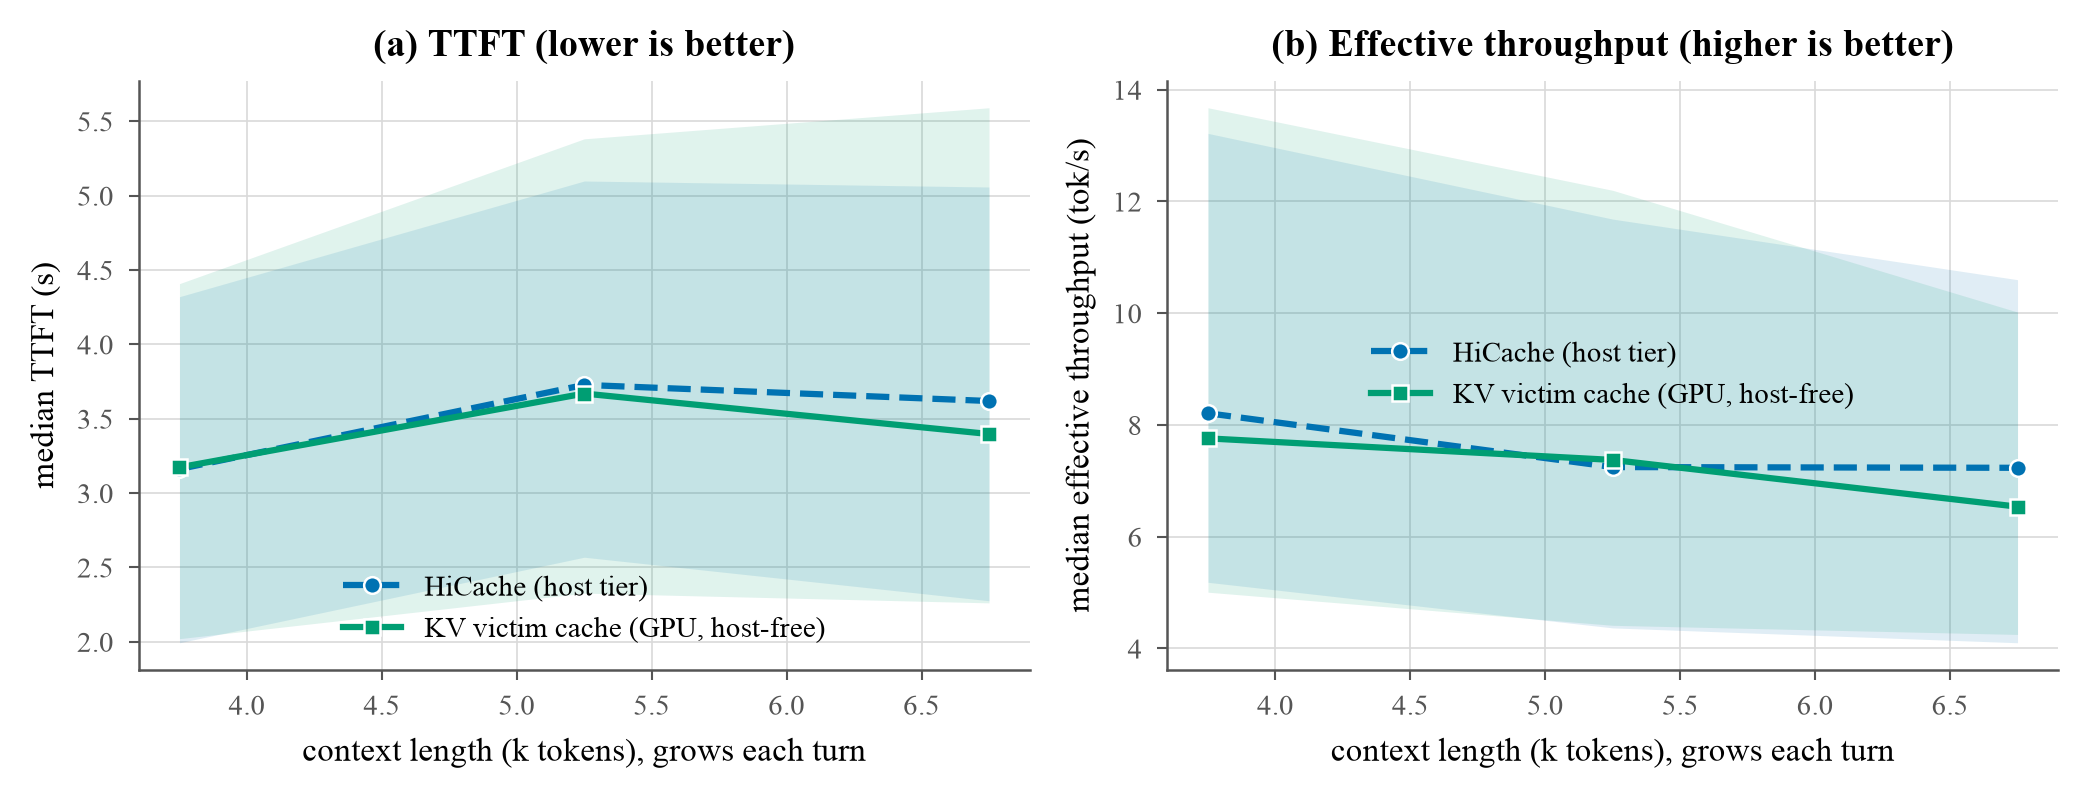
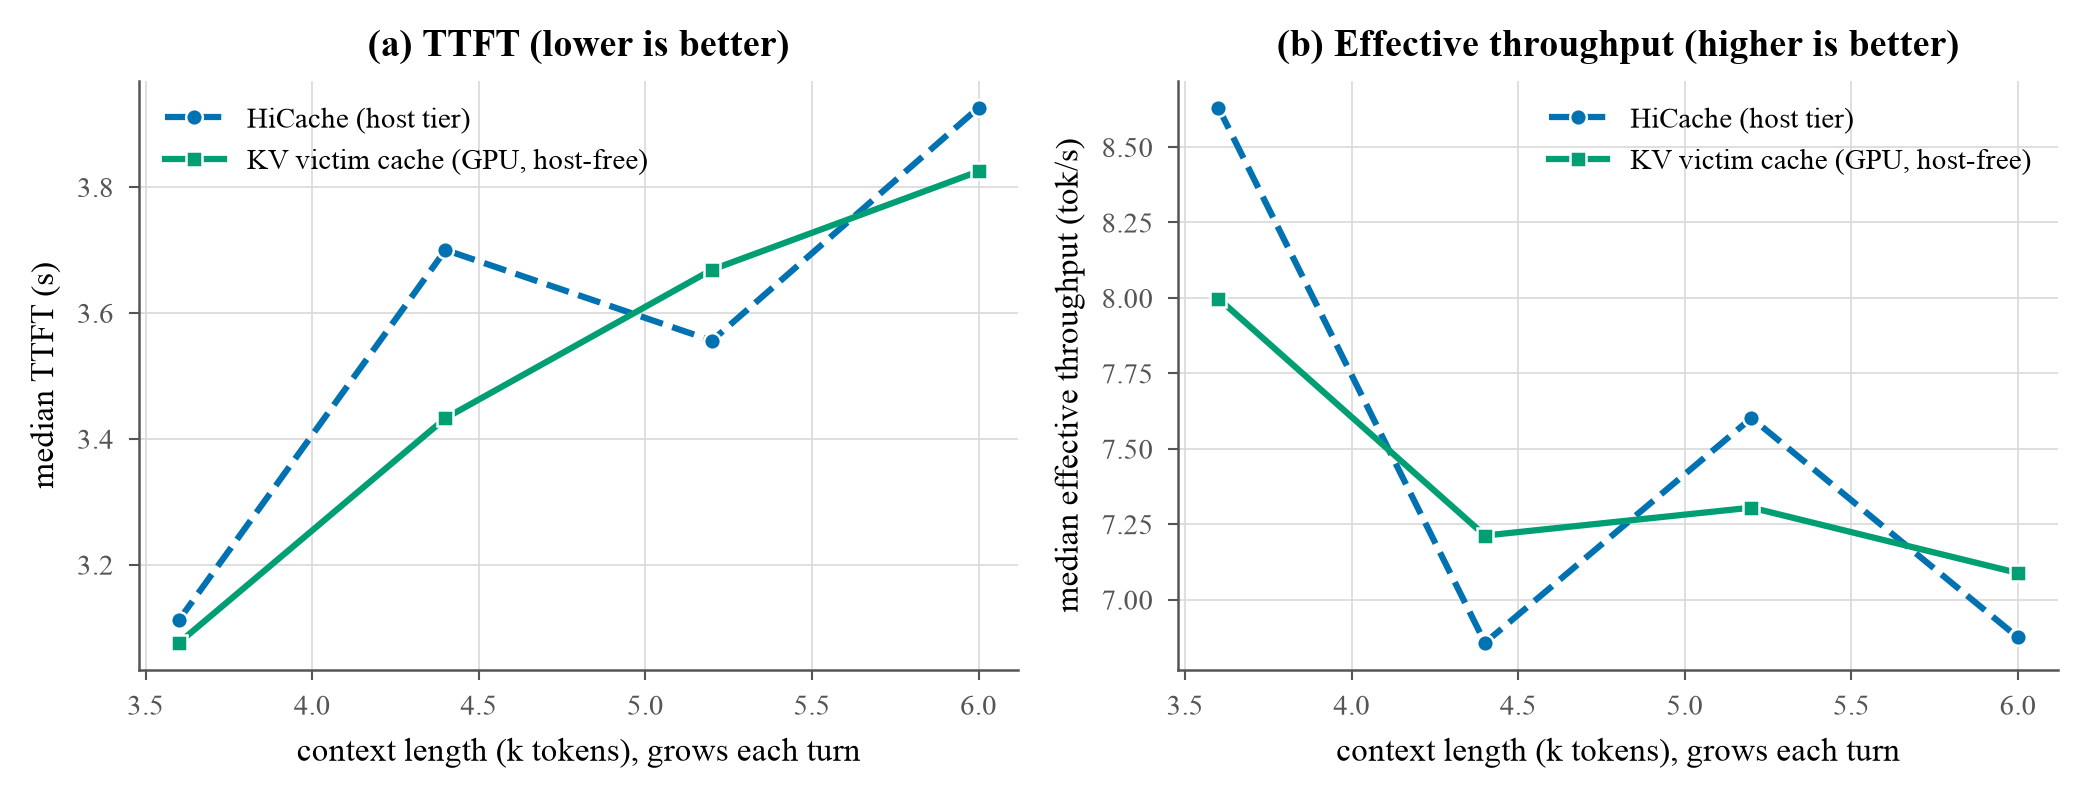
fig_perturn: drop IQR bands, lines only; finer bins (5 points)
Remove the shaded IQR bands (lines only, cleaner for the paper). Default bin
1500->800 tokens so the curve shows 5 points instead of 3 across the 3.2-6.3k
context range (data is dense: ~3850 pooled points). Binning stays on context
length (per-turn grouping collapses the x-axis since median context is ~5k at
every turn index). --bin is tunable (500->7pts noisier, 1500->3pts smoother).

Claude-Session: https://claude.ai/code/session_01AoK4pG7kwrWE4Xc7fqoTVf

diff --git a/benchmark/plot_perturn_ctxlen.py b/benchmark/plot_perturn_ctxlen.py
@@ -94,9 +94,6 @@ def draw(ax, arms, ylabel, title, better):
             continue
         xs = [r[0] / 1000.0 for r in rows]
         ys = [r[1] for r in rows]
-        lo = [r[2] for r in rows]
-        hi = [r[3] for r in rows]
-        ax.fill_between(xs, lo, hi, color=color, alpha=0.12, lw=0, zorder=2)
         ax.plot(xs, ys, color=color, lw=1.5, ls=STYLE[key]["ls"], marker=STYLE[key]["marker"],
                 ms=4, label=label, zorder=3, markeredgecolor="white", markeredgewidth=0.6)
     ax.set_xlabel("context length (k tokens), grows each turn")
@@ -111,7 +108,8 @@ def main():
     ap.add_argument("--park", nargs="+", required=True)
     ap.add_argument("--hicache", nargs="+", required=True)
     ap.add_argument("--both", nargs="+", default=[], help="optional coexistence arm (hicache+victim)")
-    ap.add_argument("--bin", type=int, default=1500, help="context-length bin width (tokens)")
+    ap.add_argument("--bin", type=int, default=800, help="context-length bin width (tokens); "
+                    "smaller = more points but noisier (500->7pts, 800->5pts, 1500->3pts)")
     ap.add_argument("--min-n", type=int, default=3, help="min points per bin to plot")
     ap.add_argument("--out", default="results/perturn/perturn_ctxlen.png")
     args = ap.parse_args()
